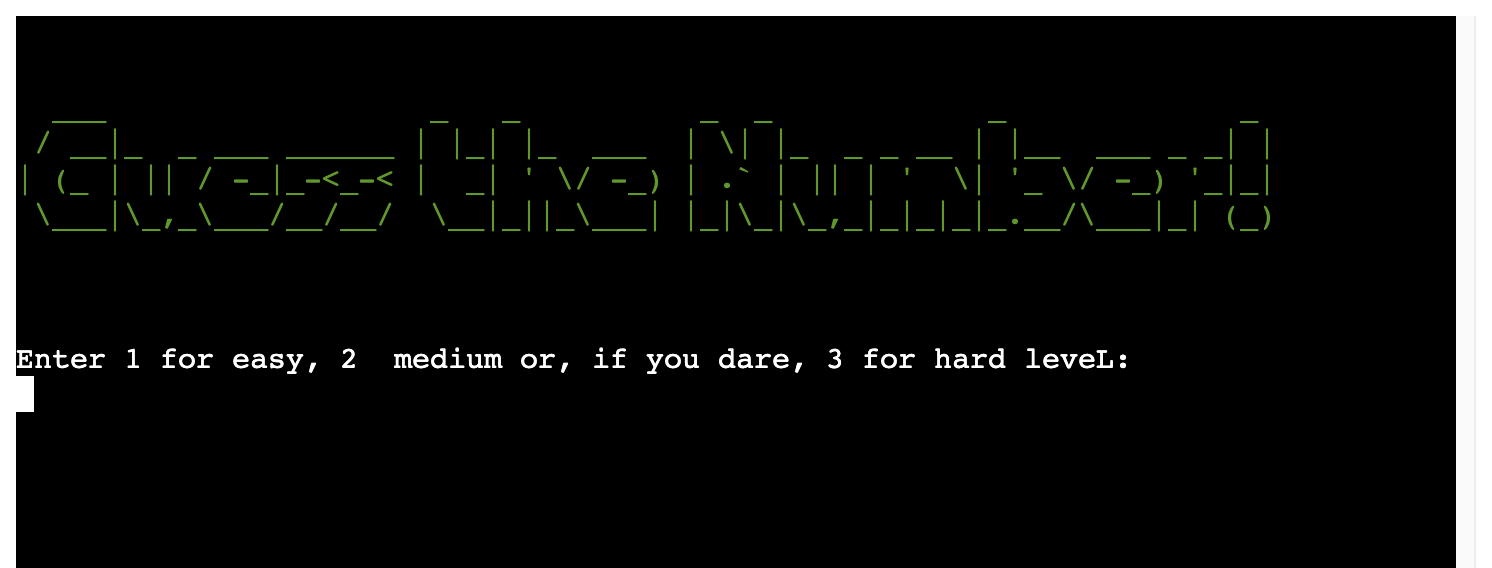
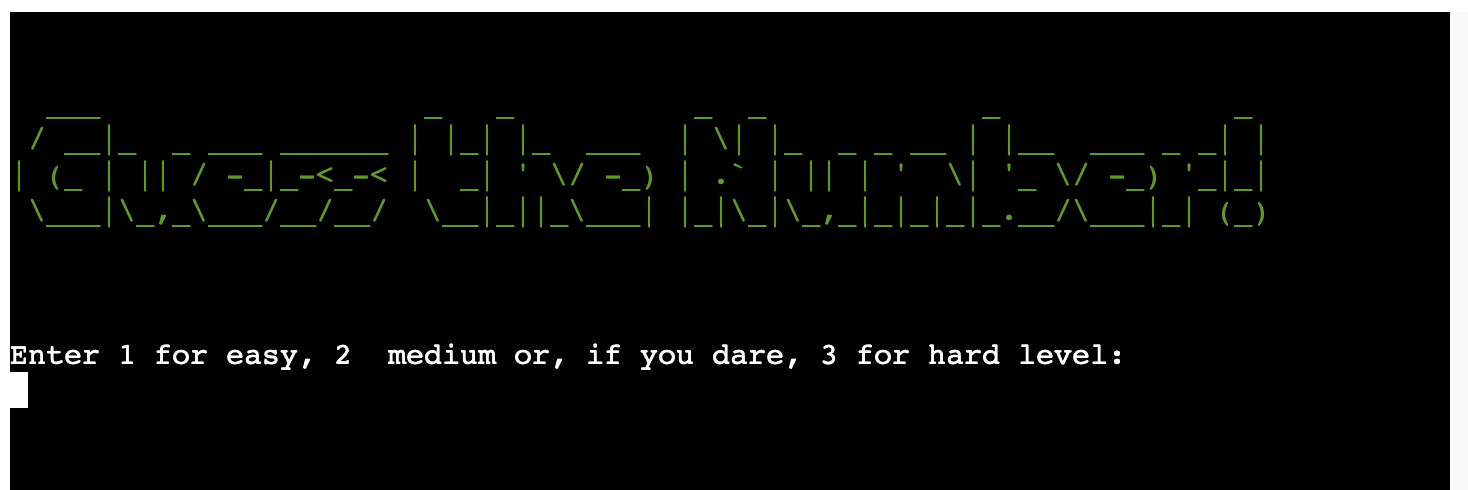
Docs: add tools and technologies section & Refactor: update image after code update on the text

diff --git a/run.py b/run.py
@@ -2,8 +2,8 @@
 Import section
 '''
 import os
-import random
 import sys
+import random
 from colorama import Fore, Style
 from pyfiglet import Figlet
 import pandas as pd

diff --git a/README.md b/README.md
@@ -118,7 +118,7 @@ Considering this project scope and design, as for user stories we contain only *
 
 ** *The game should not work on mobile as it runs inside Code Institute mock terminal on Heroku. No accessibility or responsivity testing was applied as therefore, they are not needed.* **
 
-### VALIDATOR TESTING
+### Validator Testing
 
 Python code has been tested and validated with [CI Python Linter](https://pep8ci.herokuapp.com/) and all errors have been removed from code.
 
@@ -130,7 +130,7 @@ Python code has been tested and validated with [CI Python Linter](https://pep8ci
 
   ![run.py](/assets/images/readme-validator-instructions-py.png)
 
-### TESTING AS A TABLE
+### Testing as a Table
 
 **INPUT**|**ACTION**|**EXPECTED**|**RESULT**
 ----------|----------|----------|----------
@@ -165,50 +165,89 @@ Press 1, if you want to start again or 2 to exit:|User inputs integer 1 + press 
 ||User inputs anything other than integer + press Enter|Displays message: "Numbers only!"|Works as expected
 ||User inputs any integer other than 1 or 2 + press Enter|Displays message: "Number outside the allowed range > 1-2"|Works as expected
 
-### Bugs
+Application did not break not matter inputs added and correct errors were displayed.
 
-- In development stage, multiple minor bugs were noticed, most of them while creating functions and styling. However, 2 bugs stood out.
+## BUGS
 
-- Solved Bugs
-  - Function returning same value with assign event listener to buttons
-    - After implementing solution to make [If/Else statement execute with event listener inside](https://stackoverflow.com/questions/48167887/if-else-statement-not-executing-correctly-with-event-listener-inside-javascript), the functions getUserOption() and getUserNumber() were still returning the same value. The bug was taking place due to two semicolons misplaced in the code (after 'btn-evens' condition and after 'btn-5' condition). The but was solved with the help of [Stack Overflow community](https://stackoverflow.com/questions/76551168/functions-returning-same-value-even-with-assigned-event-listener-to-the-buttons).
+### Solved bugs
 
-    - Code example with bug:
+#### - Display_results() function not working properly with scores >= 100 and more than 16 rows of data
 
-      ```text
+- This function reads the game data base (worksheet) and uses Pandas library to create a data frame with DataFrame() using columns and rows as parameters and then use sort.values() function to sort the results based on 'Scores' column from highest to lowest, filtering the top 5 results with top() function. After that, it  prints the data frame to the terminal as results.
+- When running tests on the game, it was noticed 2 issues: 1. when the scores where equal to 100 or higher (and integer with 3 digits or more), the row with these values were ignored by the sort.values() function; 2. when the worksheet contained 16 or more rows, the sort.values() stopped working as expected, always adding most recent result to the top 5, with higher scored being displayed after.
+- The bug was solved by adding the function to_numeric() to guarantee all results from column were converted into integers before being sorted.
 
-      function getUserOption(userOption) {
-      let userResult;
+  - Code example with bug:
 
-      if (userOption === 'btn-odds') {
-        userResult = 1;
-      } else if (userOption === 'btn-evens'); {
-        userResult = 0;
-      }}
+  ```
+  def display_results(user_name, score):
+    data = SHEET.worksheet('results').get_all_values()
+    headers = data[0]
+    rows = data[1:]
 
-      function getUserNumber(userNumber) {
+    data_frame = pd.DataFrame(rows, columns=headers)
+    data_frame = data_frame[['Player', 'Scores']].sort_values(
+        by='Scores', ascending=False
+        )
 
-      let userNumberSelected;
+    top_5 = data_frame.head(5)
 
-      if (userNumber === 'btn-1') {
-        userNumberSelected = 1;
-      } else if (userNumber === 'btn-2') {
-        userNumberSelected = 2;
-      } else if (userNumber === 'btn-3') {
-        userNumberSelected = 3;
-      } else if (userNumber === 'btn-4') {
-        userNumberSelected = 4;
-      } else if (userNumber === 'btn-5'); {
-        userNumberSelected = 5;
-      }}
+    clear()
+    print('\n')
+    game_name_ascii()
+    print(
+        f'\n{Fore.GREEN}{user_name}{Style.RESET_ALL}, you scored {Fore.GREEN}'
+        f'{score}{Style.RESET_ALL} points, well done!\n'
+        )
+    print('Check our all time top scorers!\n')
+    print(top_5.to_string(index=False))
+    play_again_or_exit()
+  ```
+   - This string was added before sort.values() function to fix the bug: 
+   
+   ```
+   data_frame['Scores'] = pd.to_numeric(data_frame['Scores'], errors='coerce')
+   ```
 
-      ```
+#### - Deployment error after implementing **colorama** and **pyfiglet**
+
+- **colorama** and **pyfiglet** where implemented into the code in final development stage to import *Fore* and *Style* (from first one) and *Figlet* (from second one) in order to add color to the game text and styling to the game name respectively.
+- After the implementation, the command *Pip3 freeze > requirements.txt* was run to the terminal in order to update the file with requirements for Heroku deployment. After deployment, when trying to run the game, an error was returning in the terminal line 7, with **colorama** not found crashing the application. Upon the error, requirements.txt file was inspected where both **colorama** and **pyfiglet** where not found.
+- Upon some online research, a possible reason for the issue could be these libraries not installed (the project is developed using VS Code as IDE, running locally to avoid disruptions from online IDEs). Using *pip* commands in the terminal it was confirmed both libraries were installed, and, still, requirements.txt was not being updated as expected.
+- Some more research was made and the possible issue was pointed to the current installed libraries not being fully compatible with IDE with the application was running perfectly in terminals, both VS Code terminal and Mac OS terminal, however, requirements were not being updated.
+- In order to solve the bug and deploy a runnable application, the solution applied was to manually add the requirements to the requirements.txt using currently libraries version installed. Using pip commands to install libraries it was confirmed installation along side version, which were added to the requirements.txt file.
+
+  ```
+  pyfiglet==0.8.post1
+  colorama==0.4.6
+  ```
+
+  ![Terminal](/assets/images/readme-terminal.png)
 
 ### Unfixed Bugs
 
-- There are no unfixed bugs.
+There are no unfixed bugs.
 
-## Deployment
+## TOOLS AND TECHNOLOGIES
+
+- [Python](https://www.python.org/) - backend programming language
+- [GitHub](https://github.com/) - used store the code online and deployment
+- [Heroku](https://www.heroku.com/) - cloud platform used to deploy and run application inside Code Institute mock terminal
+- [EZGIF.COM](https://ezgif.com/) - tool used to generate gif added to the README doc to display UI functionality
+
+### Imports
+
+- Imported and implemented libraries and modules in the Python code:
+
+  - `os` : used to clear the terminal within clear() function
+  - `sys` : used to exit exit the program within play_again_or_exit() function
+  - `random` : used to generate random number to be guessed in the game within generate_random_number() function
+  - `colorama` : used to apply color to the game running in the terminal, used across the code
+  - `pyfiglet` : used to add font style to the game name within game_name_ascii() function
+  - `pandas` : used within display_results() function to created, sort and display a data frame with game ranked results
+  - `gspread` and `google.oauth2.service_account` : used to access and manipulate worksheet inside Google Spreadsheets to store and read data frame with game results
+
+## DEPLOYMENT
 
 - Lorem Ipsum
   - Lorem Ipsum
